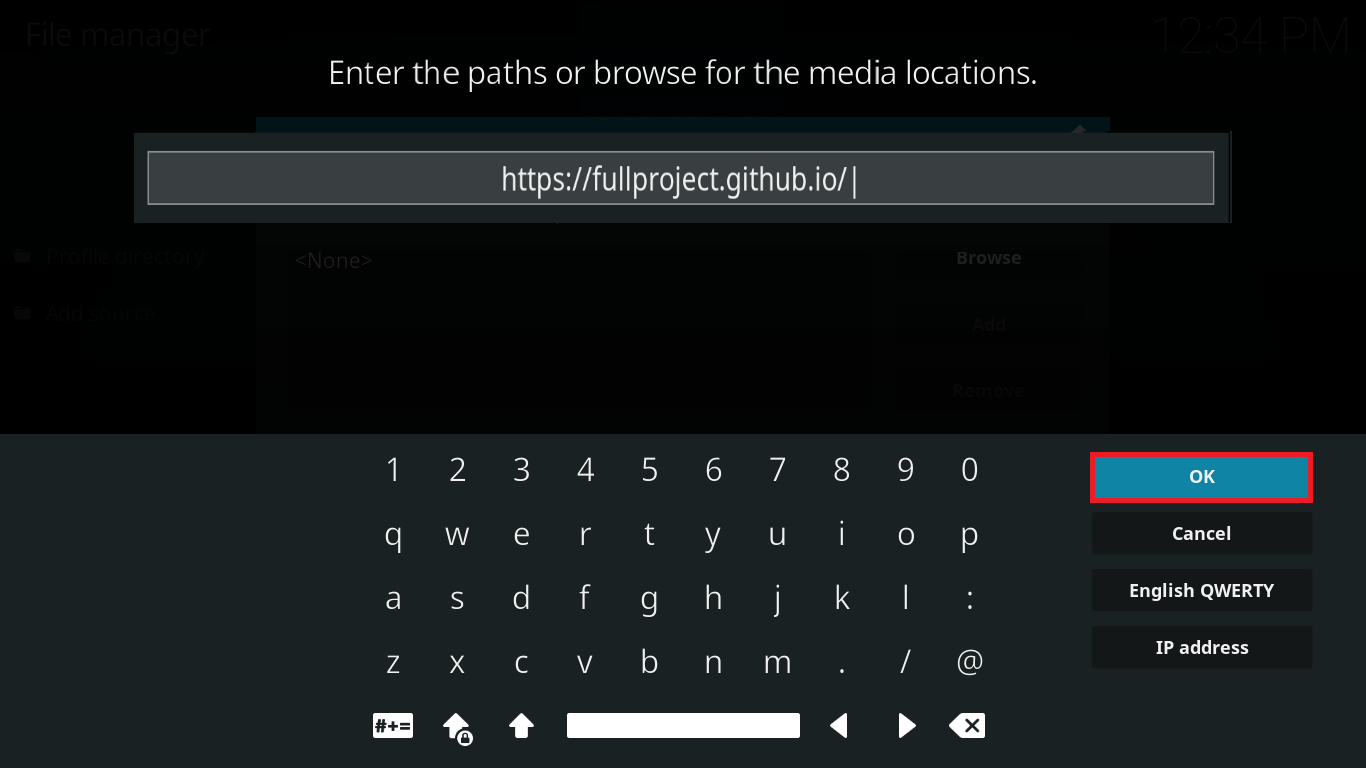
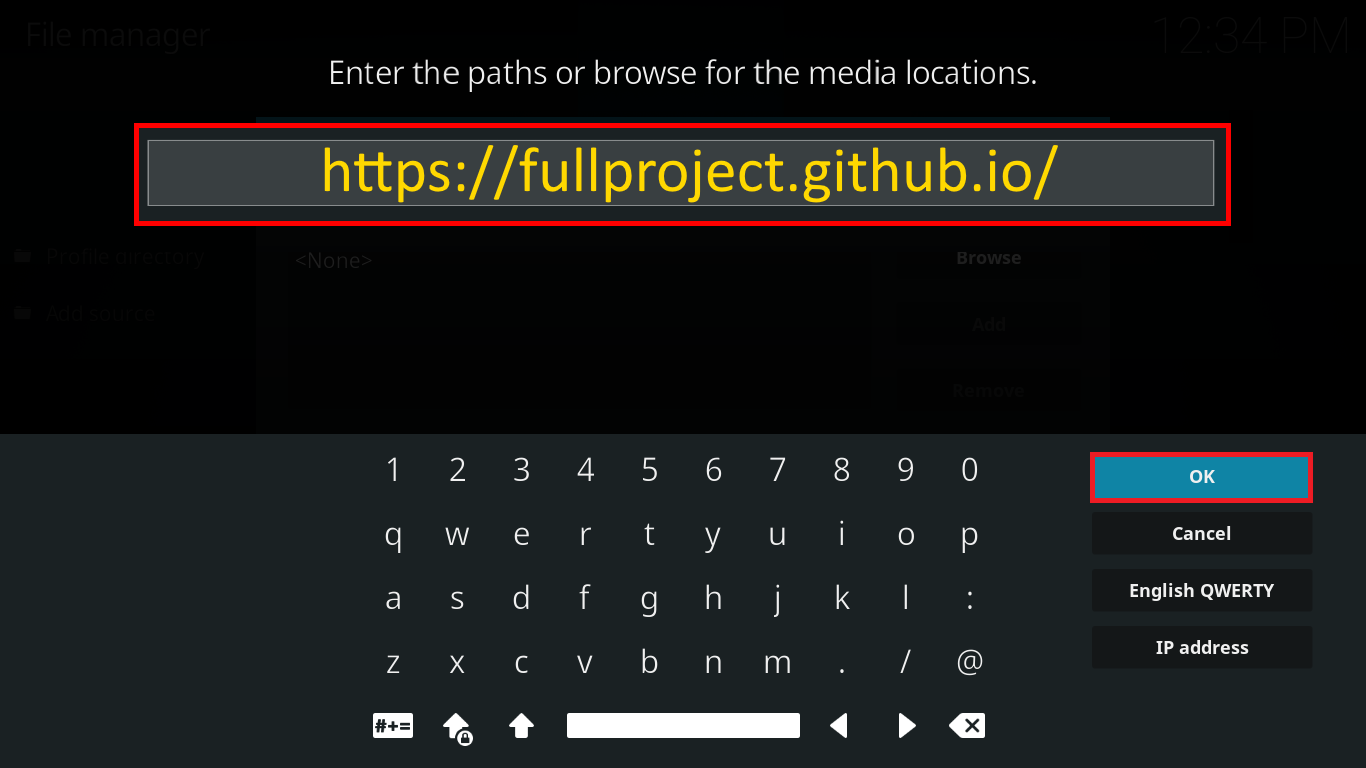
install

Changed region(s): [[0.0922, 0.1562, 0.9224, 0.3125]]

diff --git a/web/index.html b/web/index.html
@@ -19,7 +19,7 @@ body,td,th {
 <p align="center"><img src="https://raw.githubusercontent.com/fullproject/fullproject.github.io/master/web/4.png" width="480" height="220" />  </p>
 <p align="center"><strong>Selecionar None</strong></p>
 <p align="center"><img src="https://raw.githubusercontent.com/fullproject/fullproject.github.io/master/web/5.png" width="480" height="220" /></p>
-<p align="center"><span lang="pt" xml:lang="pt"><span title=""><strong>Digite o seguinte EXATAMENTE</strong></span></span><strong> a url da Repo e Depois clica em OK -> https://fullproject.github.io/</strong></p>
+<p align="center"><span lang="pt" xml:lang="pt"><span title=""><strong>Digite o seguinte: https://fullproject.github.io/</strong></span></span><strong> depois clica em OK</strong></p>
 <p align="center"><img src="https://raw.githubusercontent.com/fullproject/fullproject.github.io/master/web/6.png" width="480" height="220" />  </p>
 <p align="center"><span lang="pt" xml:lang="pt"><span title=""><strong>Destaque a caixa abaixo Digite um nome para esta mídia Origem</strong></span></span><strong> e Aperta OK</strong></p>
 <p align="center"><img src="https://raw.githubusercontent.com/fullproject/fullproject.github.io/master/web/7.png" width="480" height="220" />  </p>
